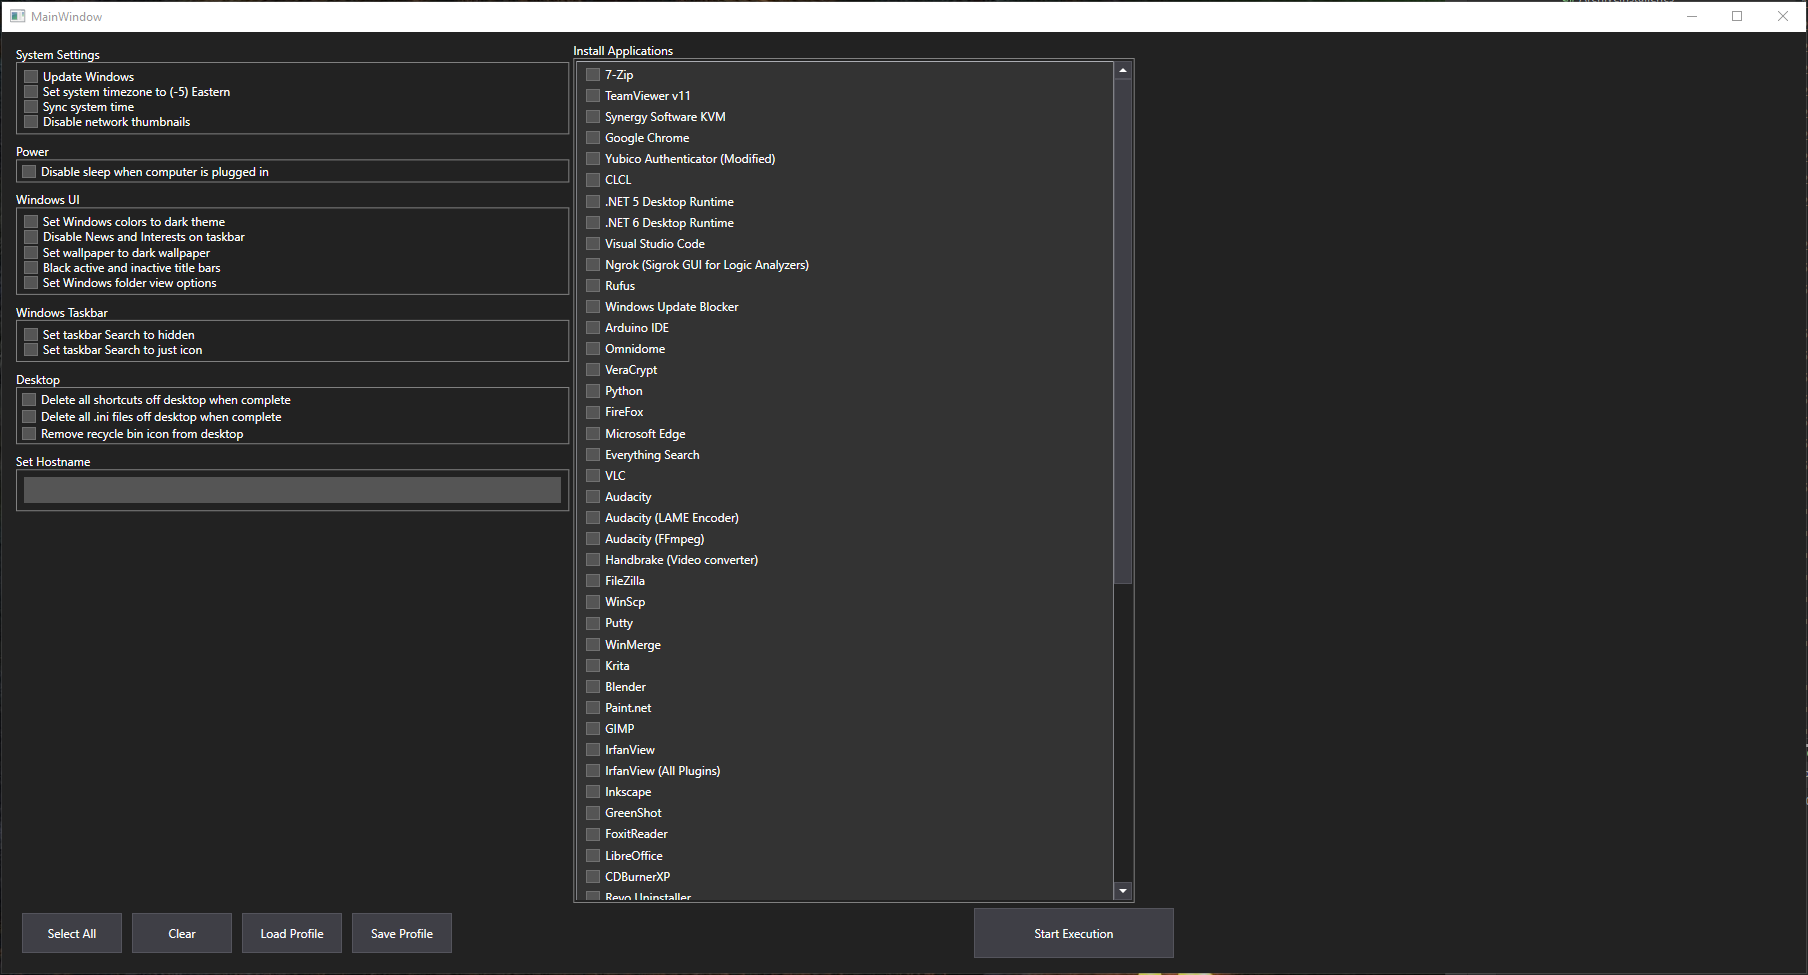
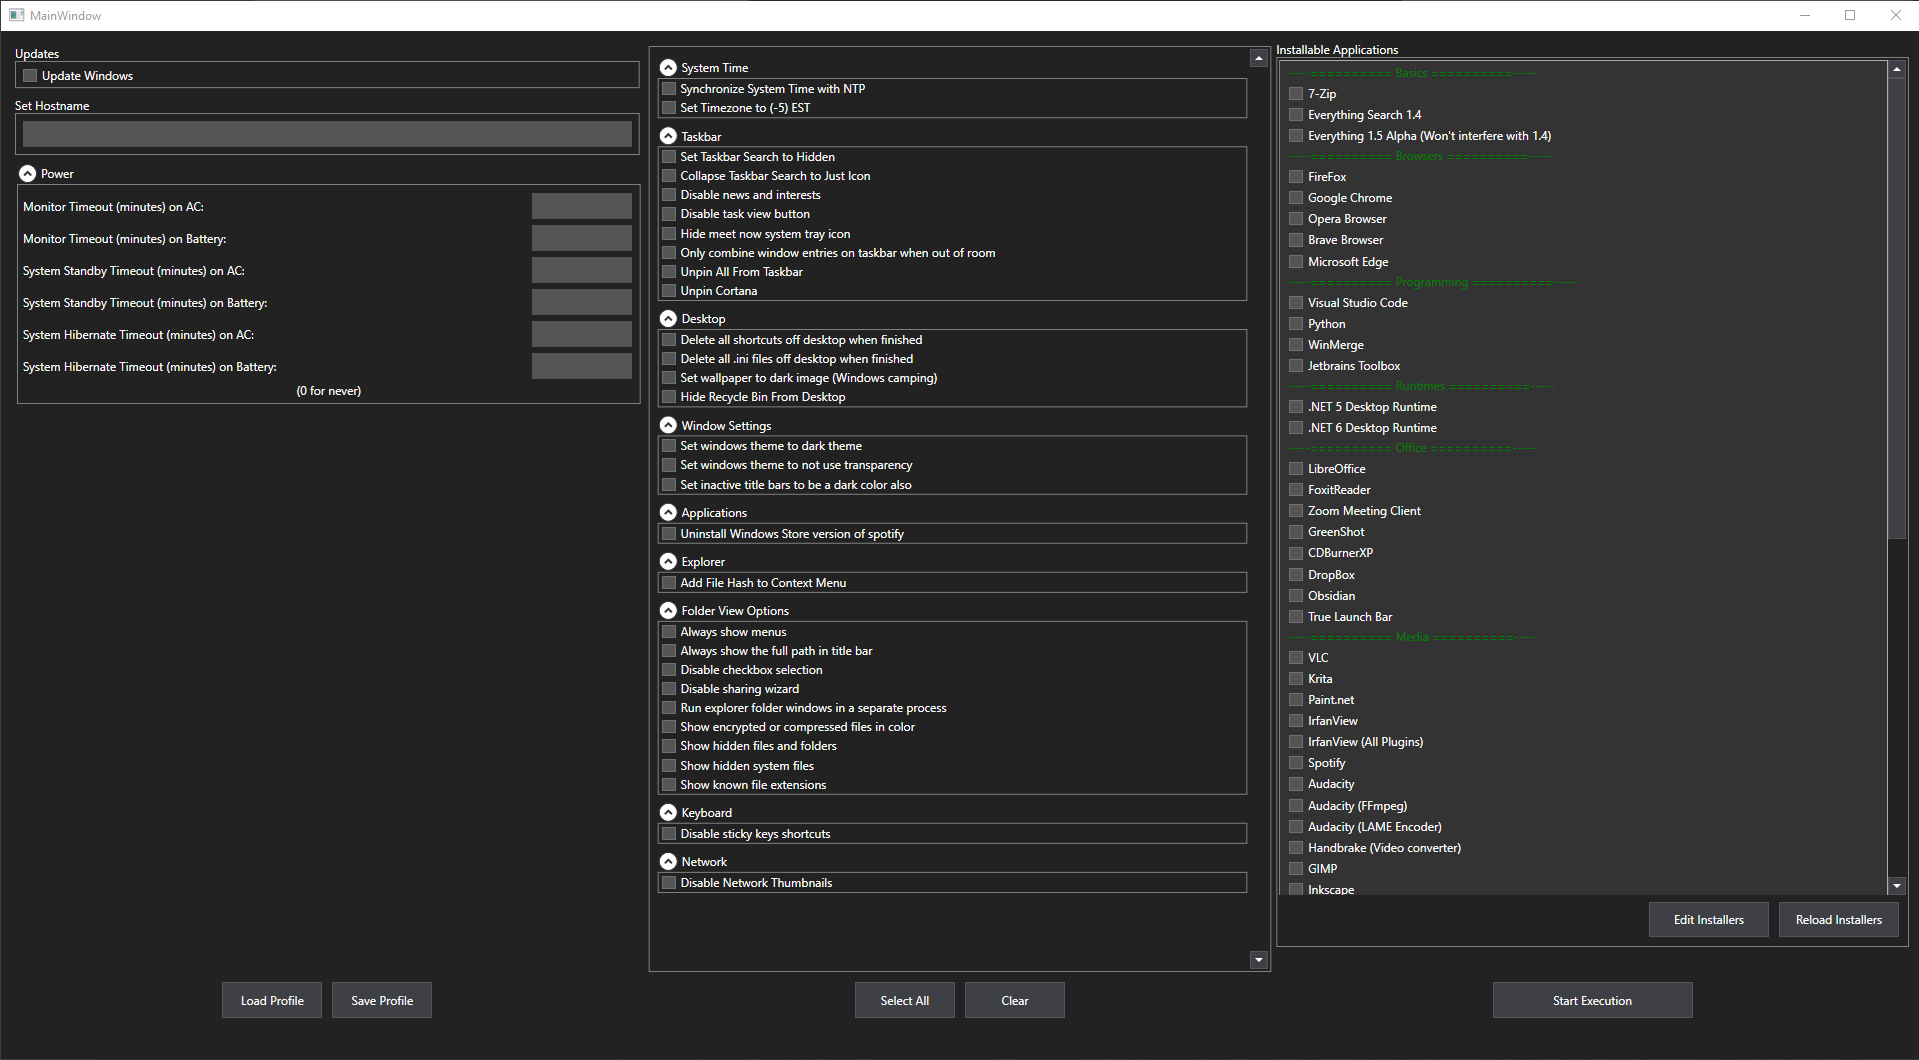
Updating docs to reflect beta release

diff --git a/WindowsSetupAssistant/WindowsSetupAssistant.Core/Logic/MainWindowLoaders/SettingsSectionBuilders/DesktopSettingsSectionBuilder.cs b/WindowsSetupAssistant/WindowsSetupAssistant.Core/Logic/MainWindowLoaders/SettingsSectionBuilders/DesktopSettingsSectionBuilder.cs
@@ -11,19 +11,21 @@ namespace WindowsSetupAssistant.Core.Logic.MainWindowLoaders.SettingsSectionBuil
 public class DesktopSettingsSectionBuilder
 {
     private readonly DesktopHelper _desktopHelper;
-    private readonly DisplayHelper _displayHelper;
+    
+    // Commenting out for release
+    //private readonly DisplayHelper _displayHelper;
 
     /// <summary>
     /// Constructor for dependency injection
     /// </summary>
     /// <param name="desktopHelper">Injected TimeHelper</param>
-    /// <param name="displayHelper">Injected DisplayHelper</param>
     public DesktopSettingsSectionBuilder(
-        DesktopHelper desktopHelper,
-        DisplayHelper displayHelper)
+        DesktopHelper desktopHelper)
     {
         _desktopHelper = desktopHelper;
-        _displayHelper = displayHelper;
+        
+        // Commenting out for release
+        // _displayHelper = displayHelper;
     }
     
     /// <summary>
@@ -64,19 +66,22 @@ public class DesktopSettingsSectionBuilder
             }
         };
         
-        var allMonitorsFullScaling = new OptionInternalMethod()
-        {
-            DisplayName = "Set all monitors to 100% scaling",
-            ExecuteSetting = () =>
-            {
-                _displayHelper.SetDpiValueToZeroForAllMonitors();
-            }
-        };
+        // Commenting out for release
+        // var allMonitorsFullScaling = new OptionInternalMethod()
+        // {
+        //     DisplayName = "Set all monitors to 100% scaling",
+        //     ExecuteSetting = () =>
+        //     {
+        //         _displayHelper.SetDpiValueToZeroForAllMonitors();
+        //     }
+        // };
         
         parentSection.Settings.Add(taskbarSearchToHidden);
         parentSection.Settings.Add(taskbarSearchToIcon);
         parentSection.Settings.Add(wallpaperToDarkImage);
-        parentSection.Settings.Add(allMonitorsFullScaling);
+        
+        // Commenting out for release
+        //parentSection.Settings.Add(allMonitorsFullScaling);
 
         return parentSection;
     }

diff --git a/README.md b/README.md
@@ -1,11 +1,11 @@
 # Index
 
-* [What it does](https://github.com/PockyBum522/windows-setup-assistant#windows-post-setup-assistant)
+* [What it does](https://github.com/PockyBum522/windows-setup-assistant#what-it-does)
 * [Features and Roadmap](https://github.com/PockyBum522/windows-setup-assistant#features-and-roadmap)
 * [Prerequisites](https://github.com/PockyBum522/windows-setup-assistant#prerequisites)
 * [Usage](https://github.com/PockyBum522/windows-setup-assistant#usage)
-* [Objectives](https://github.com/PockyBum522/windows-setup-assistant#extensible-configuration---installers)
-* [Extensible Configuration - Installers](https://github.com/PockyBum522/windows-setup-assistant#custom-configuration)
+* [Objectives](https://github.com/PockyBum522/windows-setup-assistant#objectives)
+* [Extensible Configuration - Installers](https://github.com/PockyBum522/windows-setup-assistant#extensible-configuration---installers)
 * [Extensible Configuration - Windows Settings](https://github.com/PockyBum522/windows-setup-assistant#extensible-configuration---windows-settings)
 
 * [Detailed Breakdown of What's Going On in the Batch File Bootstrapper](https://github.com/PockyBum522/windows-setup-assistant#detailed-breakdown-of-whats-going-on-in-the-batch-file-bootstrapper)
@@ -16,6 +16,12 @@
 # Windows Setup Assistant
 
 [![.NET Core](https://github.com/PockyBum522/windows-setup-assistant/actions/workflows/dotnet.yml/badge.svg)](https://github.com/PockyBum522/windows-setup-assistant/actions/workflows/dotnet.yml)
+
+<a href="documentation/img/getting-started/MainWindow.png">
+    <img src="documentation/img/getting-started/MainWindow.png"
+        alt="Picture of the Main Window of the application, where settings are set and applications can be selected for install" 
+        width=300 />
+</a>
 
 ### What it does
 
@@ -29,7 +35,7 @@ You should be able to:
 5. Answer a few questions about how you want your system configured, or load a profile you made previously with all that information
 6. Walk away
 
-In a few hours, depending on your internet speed and system speed, you should reurn to find that:
+In about an hour, depending on your internet speed and system speed, you should reurn to find that:
 
 * Your new Windows install has all settings set how you like them
 * Your Windows install is completely up to date (If you selected the "Update Windows" option)
@@ -37,11 +43,14 @@ In a few hours, depending on your internet speed and system speed, you should re
 * Any necessary reboots are handled automatically, with the program resuming on next boot.
 * Your computer has been renamed to your chosen hostname
 
-Through the use of AutoLogon64 from Microsoft SysInternals, you can make the whole process happen completely unattended.
+Through the optional use of AutoLogon64 from Microsoft SysInternals, which the bootstrapper script will set up for you, you can make the whole process happen completely unattended. If you have security concerns, you can simply type in the user's password each time the script needs to reboot and resume. Temporarily disabling UAC is also completely optional, though you will need to do both to make the process unattended.
 
 
 # Features and Roadmap
 
+* See also: [Objectives](https://github.com/PockyBum522/windows-setup-assistant#objectives)
+
+* 100% tested and working settings for all Windows settings checkboxes - Almost!
 * Basic application installation - Complete!
 * Unattended Application Installation/Settings Apply/Windows Update with reboots - Complete! 
 * Profile load/save - Complete!
@@ -56,6 +65,8 @@ We are aiming to add more settings as the project progresses. We are still in th
 
 * A Windows 10 installation that is not configured with your preferred settings or applications.
 
+* A user account on said machine with administrator priveleges
+
 * Internet on said machine
 
 
@@ -65,15 +76,15 @@ For the end user, there are a few things you should know:
 
 First off, if you just want to try it, download the latest release and then just double click "RUN ME FIRST (BOOTSTRAPPER).bat"
 
-This will set up a few things necessary for unattended install, like prompting you to disable UAC prompts (You can re-enable them after the application is finished configuring your computer) and setting up Automatic Logon to your user with Microsoft's AutoLogon.
+This will set up a few things necessary for unattended install, like prompting you to disable UAC prompts (You can re-enable them after the application is finished configuring your computer) and setting up Automatic Logon to your user with Microsoft's AutoLogon. (You can disable it after the install by running sysinternals autologon again. Both of these steps are optional, but required for a fully unattended process)
 
-After the batch file runs, it should build the main application with .NET 7 SDK, which will be installed automatically. 
+After the batch file runs, it should build the main application with the latest .NET 7 SDK, which will be installed automatically. 
 
 Once you see the main window:
 
 <a href="documentation/img/getting-started/MainWindow.png">
     <img src="documentation/img/getting-started/MainWindow.png"
-        alt="Picture of the Main Window of the application, where almost all of the settings are set and applications can be selected for install" 
+        alt="Picture of the Main Window of the application, where settings are set and applications can be selected for install" 
         width=300 />
 </a>
 
@@ -82,7 +93,7 @@ You are ready to go. Pick what applications you'd like to have installed, and wh
 
 When finished, click "Start Execution" and then you can sit back and relax or walk away. Everything from here on out will be taken care of without user interaction.
 
-If you have chosen to install standard .exe or .msi installers, they will be saved for the last part of the process.
+If you have chosen to install standard .exe or .msi installers, they will be saved for the last part of the process, so that everything else can happen unattended.
 
 
 # Objectives 
@@ -93,17 +104,17 @@ If you have chosen to install standard .exe or .msi installers, they will be sav
 
 * Move work to be async, although that will mean needing to disable changes to the Main Window controls during the process. Not a big deal, though.
 
-* Application settings able to be set, not just Windows settings
+* Application settings would be nice to be able to be set, not just Windows settings - This will be more difficult to set up since I can't just index .reg files for some of those
 
 * Better logging and failure recovery
 
-* Considering: Integration of AutoHotKey scripts for both program installation/installation automation as well as changing settings
+* Considering: Integration of AutoHotKey scripts for attended installers automation as well as changing settings
 
 * Making desktop and start menu shortcuts if specified for PortableApplicationInstaller and ArchiveInstaller.
 
 ### Long-Term
 
-* Windows 11 Support
+* Windows 11 Support (Has not yet been tested at all)
 
 
 # Extensible Configuration - Installers
@@ -249,7 +260,7 @@ When you double click on "RUN ME FIRST (BOOTSTRAPPER).bat" a few things happen:
 
 * The batch file then notifies the user they should disable UAC prompts and set up AutoLogin. 
 
-This is for unattended capability, both of these things can be re-enabled/disabled once the application finishes running and the computer reboots for the last time. 
+This is for unattended capability, both of these things can be re-enabled/disabled once the application finishes running and the computer reboots for the last time. Both of these are optional, but required for the whole process being unattended.
 
 * The batch file then installs Chocolatey, which we'll be using to install things
 
@@ -273,20 +284,20 @@ This is deleted once the application has run through its complete process.
 
 * If you selected to update windows, a CLI windows update handler will be installed, and windows will be updated as far as it will allow without a reboot. 
 
-* The application then marks that it has gotten through the first stage by writing to another file in C:\Users\Public\Documents\
+* The application then updates the JSON file in C:\Users\Public\Documents\ and saves what stage of the installation process/that it has gotten through the first stage
 
-* When the computer is done rebooting to apply the windows updates, the batch file launches because it's in the public startup folder, and re-runs the application.
+* When the computer is done rebooting to apply the windows updates, the batch file in the public startup folder launches, and re-runs the application.
 
 * Upon re-launch, the application checks the settings it saved at the beginning, and what stage of the process it's on. 
 
-It does any necessary work, and then if necessary, updates the stage and reboots the computer. The first few reboots are just to install windows updates, reboot, then see if there are any more updates and install them.
+It does any necessary work, and then if necessary, updates the stage and reboots the computer. The first few reboots are just to install windows updates, reboot, then see if there are any more updates and install them. This only happens if you checked the "Update Windows" checkbox.
 
 * Once it's done updating windows, it will start installing selected applications. It handles all the selected 
 ChocolateyInstallers, ArchiveInstallers, and PortableApplicationInstallers first, since those don't require user interaction. Once those are finished, it runs all ExecutableInstallers.
 
-It will then load a warning dialog telling you to proceed through any ExecutableInstallers that may be on the screen, then once you are finished, press yes to reboot the computer.
+It will then load a warning dialog telling you to proceed through any user-interactive ExecutableInstallers that may be on the screen, then once you are finished, press yes to reboot the computer.
 
-This is the last reboot, and at this point the process is finished. The application will clean up the files it was using to save the current stage of the process it was in, the user options that were selected at the beginning, and the bat file in Public Startup.
+This is the last reboot, and at this point the process is finished. The application will clean up the files it was using to save the current stage of the process it was in, which are: The JSON file with stage info and the user options that were selected at the beginning, and the bat file in Public Startup.
 
 # Helping With Development
 
@@ -298,7 +309,7 @@ For now, there's several things that would be helpful until I get a better idea 
 
 * Windows Settings
 
-If you want a setting added and can get a .reg file or C# code to do what you want, send it over! I'll add it. Soon, I hope to have it so that you can just drop them in \windows-setup-assistant\WindowsSetupAssistant\Resources\Configuration\Registry Files\ and they will be indexed and become a selectable option, allowing for better customization by the end users in this area.
+If you want a setting added and can get a .reg file or C# code to do what you want, send it over!
 
 * New Installs
 
@@ -318,17 +329,23 @@ I am self taught, and in addition to that, I don't know what I don't know.
 
 If you see a better way to do something, or structure things, or anything, please talk to me about it. File an issue and use the "question" tag. I would love to have a conversation with you!
 
+* Security Review
+
+See above. I don't know what I don't know. 
+
+The good news is this application isn't running on the open internet, it's running on your local machine. It also does not phone home or connect to anywhere other than chocolatey's servers/whatever servers the chocolatey installs pull from. The bad news is it needs admin priveleges for a lot of the process. Protect your configuration files. Nasty stuff could be replicated on any machines that you use this on should something get compromised. However, the same holds true if you were just carrying around a thumbdrive with a bunch of .exe's to install and one of those became compromised. Also, fair warning, some of the preconfigured chocolatey installs are community packages. Update those to be only official packages if you want better security checks on that side.
+
 
 # Why didn't you just...?
 
 Use group policy?
 
-Use ninite? (I love ninite. Great product. I used the paid version for years.)
+Use ninite? (I love ninite. Great product. I used the paid version for a long while.)
 
 Use X, Y, or Z?
 
 (Sysprep? You think your mother could use sysprep easily?)
 
-Mostly because I wanted to make something that's useful and usable by everyone! I wanted it to be simple to configure, powerful enough to be useful, and help real people save time. Since this application just pops up a window asking you what you'd like to install or configure, that seems pretty simple and usable to me! 
+Mostly because I wanted to make something that's useful and usable by everyone! I wanted it to be simple to configure, powerful enough to be useful, and help real people save time. Since this application just pops up a window asking you what you'd like to install or configure, that seems pretty simple to me! 
 
-Up to this point, I have done lots of research and have never been able to find something that will let you do Windows settings, application installs, and custom configuration of those things all in one place. I aim to fix that.
+Up to this point, I have done lots of research and have never been able to find something that will let you do Windows settings, application installs, and custom configuration of those things all in one place. This aims to fix that.
